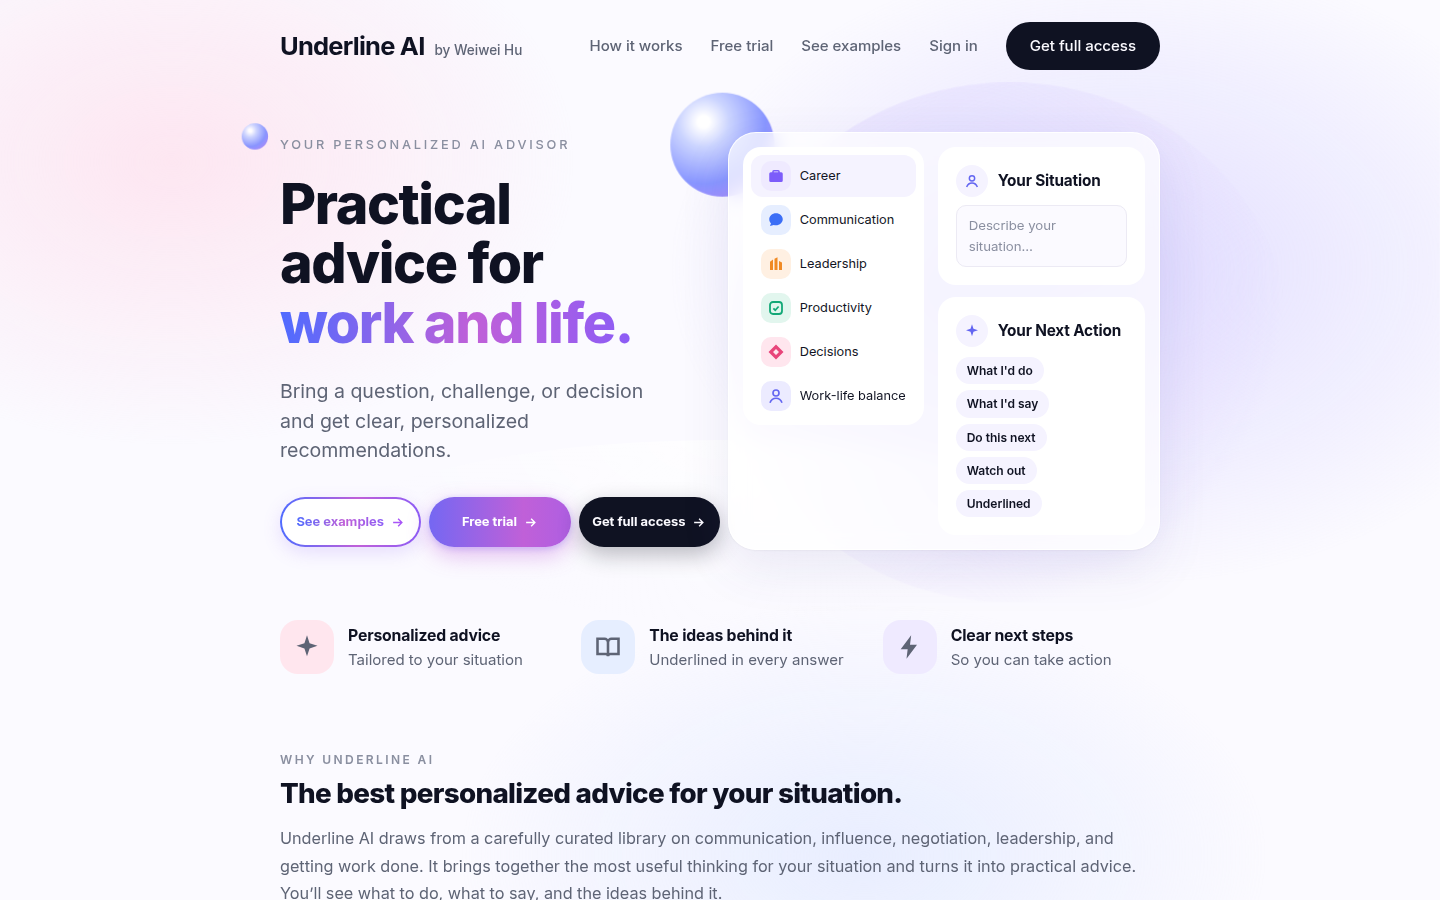
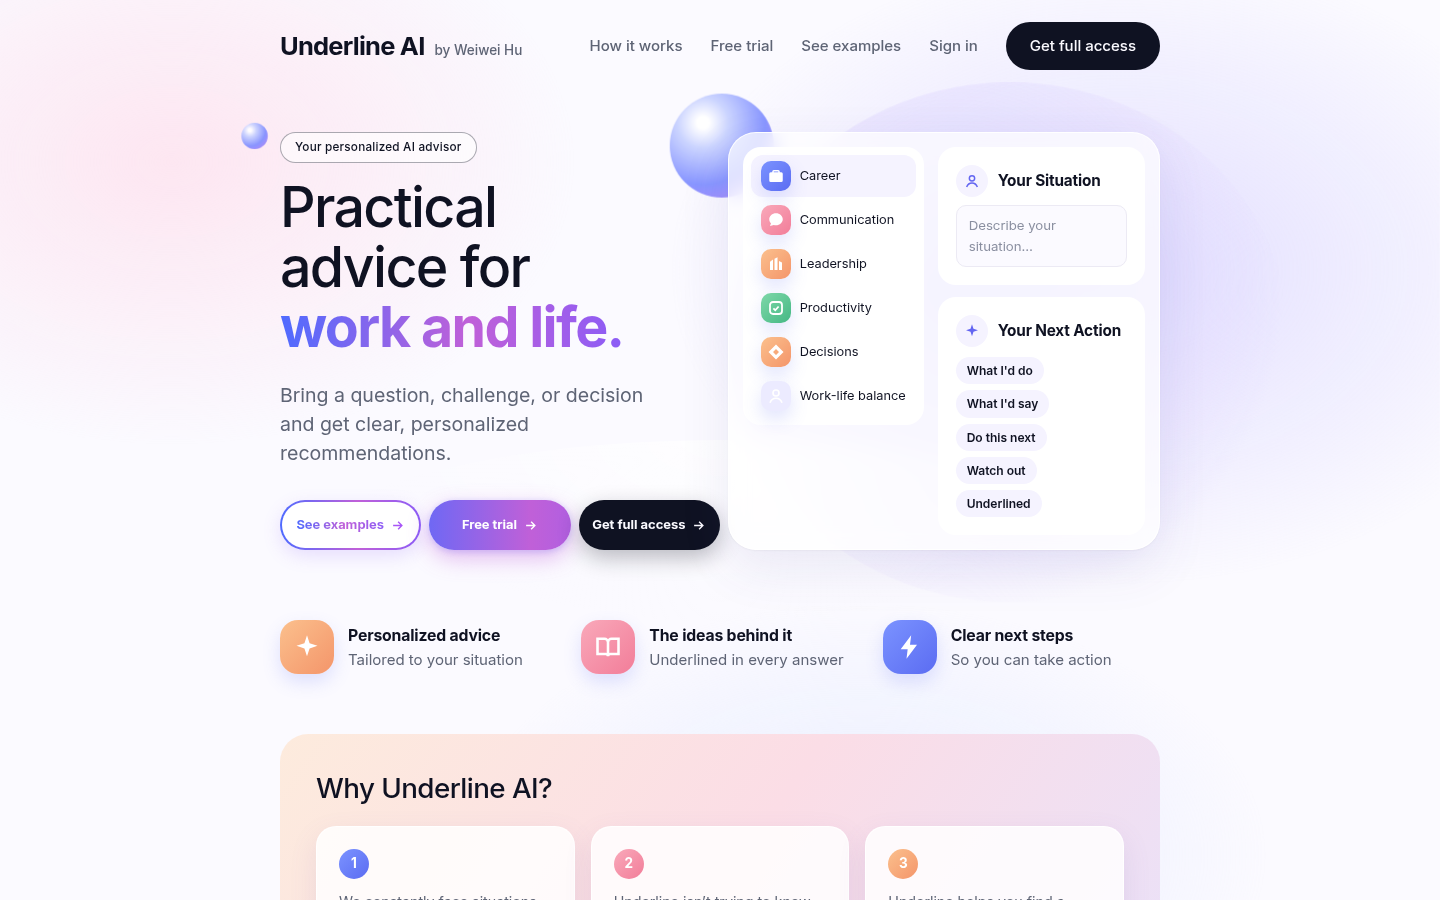
Website in the template's design: gradient panels, frosted cards, pill labels, light titles, gradient tiles and buttons
Claude-Session: https://claude.ai/code/session_01N7N6w9NyR9iyFeuC71Pzud

diff --git a/app/index.html b/app/index.html
@@ -373,6 +373,46 @@ html{overflow-x:hidden}
   .hero .ctas .btn.trybtn{animation:none}.hero .ctas .btn.trybtn::after{display:none}}
 @media (max-width:520px){.hero .ctas{grid-template-columns:1fr;width:100%}.hero .ctas .btn.big{width:100%!important;font-size:.95rem!important}}
 
+/* ===== Template design: the look of the Underline AI slides, applied across the page =====
+   Soft peach-pink-lavender "slide" panels, frosted white cards, outlined pill labels, light titles with a
+   bold gradient accent, gradient icon tiles and buttons, glossy spheres. */
+:root{--f:"Poppins","Inter",system-ui,-apple-system,"Segoe UI",sans-serif;
+  --panel:linear-gradient(125deg,#FDEBDD 0%,#FBDDE6 46%,#E6E2FD 100%);--frost:rgba(255,255,255,.84);--frostline:rgba(255,255,255,.95);
+  --gblue:linear-gradient(135deg,#7B93FF,#5B6CF2);--gpink:linear-gradient(135deg,#F9A9BA,#F27D99);--gorange:linear-gradient(135deg,#FBC08D,#F4956A);
+  --ggreen:linear-gradient(135deg,#7FD8A9,#45B884);--glav:linear-gradient(135deg,#B3A6FF,#8B78F2)}
+@media (prefers-color-scheme: dark){:root:not([data-theme="light"]){--panel:linear-gradient(125deg,#2A2030 0%,#2B1E2C 46%,#1F2142 100%);--frost:rgba(30,33,51,.86);--frostline:rgba(255,255,255,.06)}}
+:root[data-theme="dark"]{--panel:linear-gradient(125deg,#2A2030 0%,#2B1E2C 46%,#1F2142 100%);--frost:rgba(30,33,51,.86);--frostline:rgba(255,255,255,.06)}
+body,button,input,textarea{font-family:var(--f)}
+/* titles: light, large, with the gradient words bold */
+.hero h1{font-weight:500!important;letter-spacing:-.03em}
+.hero h1 .grad{font-weight:700}
+h2{font-weight:500!important;letter-spacing:-.02em}
+.closing h2{font-weight:500!important}.closing h2 .grad{font-weight:700}
+/* section labels become outlined pills */
+.kicker,.hero .eyebrow{display:inline-block;padding:5px 14px;border-radius:999px;border:1px solid color-mix(in srgb,var(--ink) 35%,transparent);
+  background:color-mix(in srgb,var(--card) 60%,transparent);color:var(--ink);font-size:.78rem;font-weight:500;letter-spacing:.02em;text-transform:none;margin:0 0 14px}
+/* each section is a soft gradient "slide" */
+#why,#how,#own,#try,#member{background:var(--panel);border-radius:28px;padding:40px 36px 36px!important;margin-top:40px;overflow:hidden}
+#why h2,#how h2,#own h2,#try h2,#member h2{margin-top:0}
+#why .whycard,#how .steps li,#own .panel,#try .panel,#member .panel{background:var(--frost)!important;border:1px solid var(--frostline)!important;box-shadow:0 10px 28px rgba(120,100,170,.12)!important}
+@media (max-width:620px){#why,#how,#own,#try,#member{padding:28px 18px 22px!important;border-radius:22px;margin-top:28px}}
+/* gradient icon tiles with white icons, like the template's colored tiles */
+.ic{color:#fff!important}.ic svg{color:#fff}
+.ic.c1{background:var(--gblue)!important}.ic.c2{background:var(--gpink)!important}.ic.c3{background:var(--gorange)!important}
+.ic.c4{background:var(--ggreen)!important}.ic.c5{background:var(--gorange)!important}
+.ic{box-shadow:0 8px 18px rgba(91,108,242,.18)}
+/* How it works: the middle step is the highlighted gradient card */
+#how .steps li:nth-child(2){background:var(--gblue)!important;border-color:transparent!important;box-shadow:0 14px 30px rgba(91,108,242,.28)!important}
+#how .steps li:nth-child(2) b,#how .steps li:nth-child(2) span:not(.ic){color:#fff!important}
+#how .steps li:nth-child(2) .ic{background:rgba(255,255,255,.22)!important;box-shadow:none}
+/* Why: each number its own gradient */
+.whycard:nth-child(1) .whynum{background:var(--gblue)}.whycard:nth-child(2) .whynum{background:var(--gpink)}.whycard:nth-child(3) .whynum{background:var(--gorange)}
+/* main buttons in the forms use the template's blue gradient */
+#own .trygo.btn.dark,#try .trygo.btn.dark,#member .trygo.btn.dark{background:var(--gblue)!important;color:#fff!important;box-shadow:0 10px 22px rgba(91,108,242,.3)}
+#own .trygo.btn.dark:hover,#try .trygo.btn.dark:hover,#member .trygo.btn.dark:hover{filter:brightness(1.06)}
+/* the chosen example: a gradient pill */
+.trychips button[aria-pressed="true"]{background:var(--gblue)!important;color:#fff!important;border-color:transparent!important}
+
 /* Members page */
 .hero .ctas.two{grid-template-columns:repeat(2,1fr);width:320px}
 .closing .ctas .btn.big{width:auto!important;min-width:0;flex:none;padding:14px 26px!important}
@@ -403,7 +443,7 @@ html{overflow-x:hidden}
     <div class="orb" style="width:26px;height:26px;left:-40px;top:6%" aria-hidden="true"></div>
     <div>
       <p class="eyebrow">Your full version</p>
-      <h1>Practical advice for <span class="grad">work and life.</span></h1>
+      <h1>Practical<br>advice for<br><span class="grad">work and life.</span></h1>
       <p class="lead">Welcome back. Bring any question, challenge, or decision, as often as you like, and get clear, personalized recommendations.</p>
       <div class="ctas two">
         <a class="btn big trybtn" href="#member"><span class="bt">My Next Action</span> <svg viewBox="0 0 24 24" width="20" height="20" fill="none" stroke="currentColor" stroke-width="2.2" aria-hidden="true"><path d="M5 12h14M13 6l6 6-6 6"/></svg></a>

diff --git a/index.html b/index.html
@@ -372,6 +372,46 @@ html{overflow-x:hidden}
 @media (prefers-reduced-motion:reduce){.hero .ctas .btn,.hero .ctas .btn svg{transition:none}.hero .ctas .btn:hover,.hero .ctas .btn:hover svg,.hero .ctas .btn:active{transform:none}
   .hero .ctas .btn.trybtn{animation:none}.hero .ctas .btn.trybtn::after{display:none}}
 @media (max-width:520px){.hero .ctas{grid-template-columns:1fr;width:100%}.hero .ctas .btn.big{width:100%!important;font-size:.95rem!important}}
+
+/* ===== Template design: the look of the Underline AI slides, applied across the page =====
+   Soft peach-pink-lavender "slide" panels, frosted white cards, outlined pill labels, light titles with a
+   bold gradient accent, gradient icon tiles and buttons, glossy spheres. */
+:root{--f:"Poppins","Inter",system-ui,-apple-system,"Segoe UI",sans-serif;
+  --panel:linear-gradient(125deg,#FDEBDD 0%,#FBDDE6 46%,#E6E2FD 100%);--frost:rgba(255,255,255,.84);--frostline:rgba(255,255,255,.95);
+  --gblue:linear-gradient(135deg,#7B93FF,#5B6CF2);--gpink:linear-gradient(135deg,#F9A9BA,#F27D99);--gorange:linear-gradient(135deg,#FBC08D,#F4956A);
+  --ggreen:linear-gradient(135deg,#7FD8A9,#45B884);--glav:linear-gradient(135deg,#B3A6FF,#8B78F2)}
+@media (prefers-color-scheme: dark){:root:not([data-theme="light"]){--panel:linear-gradient(125deg,#2A2030 0%,#2B1E2C 46%,#1F2142 100%);--frost:rgba(30,33,51,.86);--frostline:rgba(255,255,255,.06)}}
+:root[data-theme="dark"]{--panel:linear-gradient(125deg,#2A2030 0%,#2B1E2C 46%,#1F2142 100%);--frost:rgba(30,33,51,.86);--frostline:rgba(255,255,255,.06)}
+body,button,input,textarea{font-family:var(--f)}
+/* titles: light, large, with the gradient words bold */
+.hero h1{font-weight:500!important;letter-spacing:-.03em}
+.hero h1 .grad{font-weight:700}
+h2{font-weight:500!important;letter-spacing:-.02em}
+.closing h2{font-weight:500!important}.closing h2 .grad{font-weight:700}
+/* section labels become outlined pills */
+.kicker,.hero .eyebrow{display:inline-block;padding:5px 14px;border-radius:999px;border:1px solid color-mix(in srgb,var(--ink) 35%,transparent);
+  background:color-mix(in srgb,var(--card) 60%,transparent);color:var(--ink);font-size:.78rem;font-weight:500;letter-spacing:.02em;text-transform:none;margin:0 0 14px}
+/* each section is a soft gradient "slide" */
+#why,#how,#own,#try,#member{background:var(--panel);border-radius:28px;padding:40px 36px 36px!important;margin-top:40px;overflow:hidden}
+#why h2,#how h2,#own h2,#try h2,#member h2{margin-top:0}
+#why .whycard,#how .steps li,#own .panel,#try .panel,#member .panel{background:var(--frost)!important;border:1px solid var(--frostline)!important;box-shadow:0 10px 28px rgba(120,100,170,.12)!important}
+@media (max-width:620px){#why,#how,#own,#try,#member{padding:28px 18px 22px!important;border-radius:22px;margin-top:28px}}
+/* gradient icon tiles with white icons, like the template's colored tiles */
+.ic{color:#fff!important}.ic svg{color:#fff}
+.ic.c1{background:var(--gblue)!important}.ic.c2{background:var(--gpink)!important}.ic.c3{background:var(--gorange)!important}
+.ic.c4{background:var(--ggreen)!important}.ic.c5{background:var(--gorange)!important}
+.ic{box-shadow:0 8px 18px rgba(91,108,242,.18)}
+/* How it works: the middle step is the highlighted gradient card */
+#how .steps li:nth-child(2){background:var(--gblue)!important;border-color:transparent!important;box-shadow:0 14px 30px rgba(91,108,242,.28)!important}
+#how .steps li:nth-child(2) b,#how .steps li:nth-child(2) span:not(.ic){color:#fff!important}
+#how .steps li:nth-child(2) .ic{background:rgba(255,255,255,.22)!important;box-shadow:none}
+/* Why: each number its own gradient */
+.whycard:nth-child(1) .whynum{background:var(--gblue)}.whycard:nth-child(2) .whynum{background:var(--gpink)}.whycard:nth-child(3) .whynum{background:var(--gorange)}
+/* main buttons in the forms use the template's blue gradient */
+#own .trygo.btn.dark,#try .trygo.btn.dark,#member .trygo.btn.dark{background:var(--gblue)!important;color:#fff!important;box-shadow:0 10px 22px rgba(91,108,242,.3)}
+#own .trygo.btn.dark:hover,#try .trygo.btn.dark:hover,#member .trygo.btn.dark:hover{filter:brightness(1.06)}
+/* the chosen example: a gradient pill */
+.trychips button[aria-pressed="true"]{background:var(--gblue)!important;color:#fff!important;border-color:transparent!important}
 </style>
 
 <div class="wrap">
@@ -391,7 +431,7 @@ html{overflow-x:hidden}
     <div class="orb" style="width:26px;height:26px;left:-40px;top:6%" aria-hidden="true"></div>
     <div>
       <p class="eyebrow">Your personalized AI advisor</p>
-      <h1>Practical advice for <span class="grad">work and life.</span></h1>
+      <h1>Practical<br>advice for<br><span class="grad">work and life.</span></h1>
       <p class="lead">Bring a question, challenge, or decision and get clear, personalized recommendations.</p>
       <div class="ctas">
         <a class="btn big line" href="#try"><span class="bt">See examples</span> <svg viewBox="0 0 24 24" width="20" height="20" fill="none" stroke="currentColor" stroke-width="2.2" aria-hidden="true"><path d="M5 12h14M13 6l6 6-6 6"/></svg></a>
